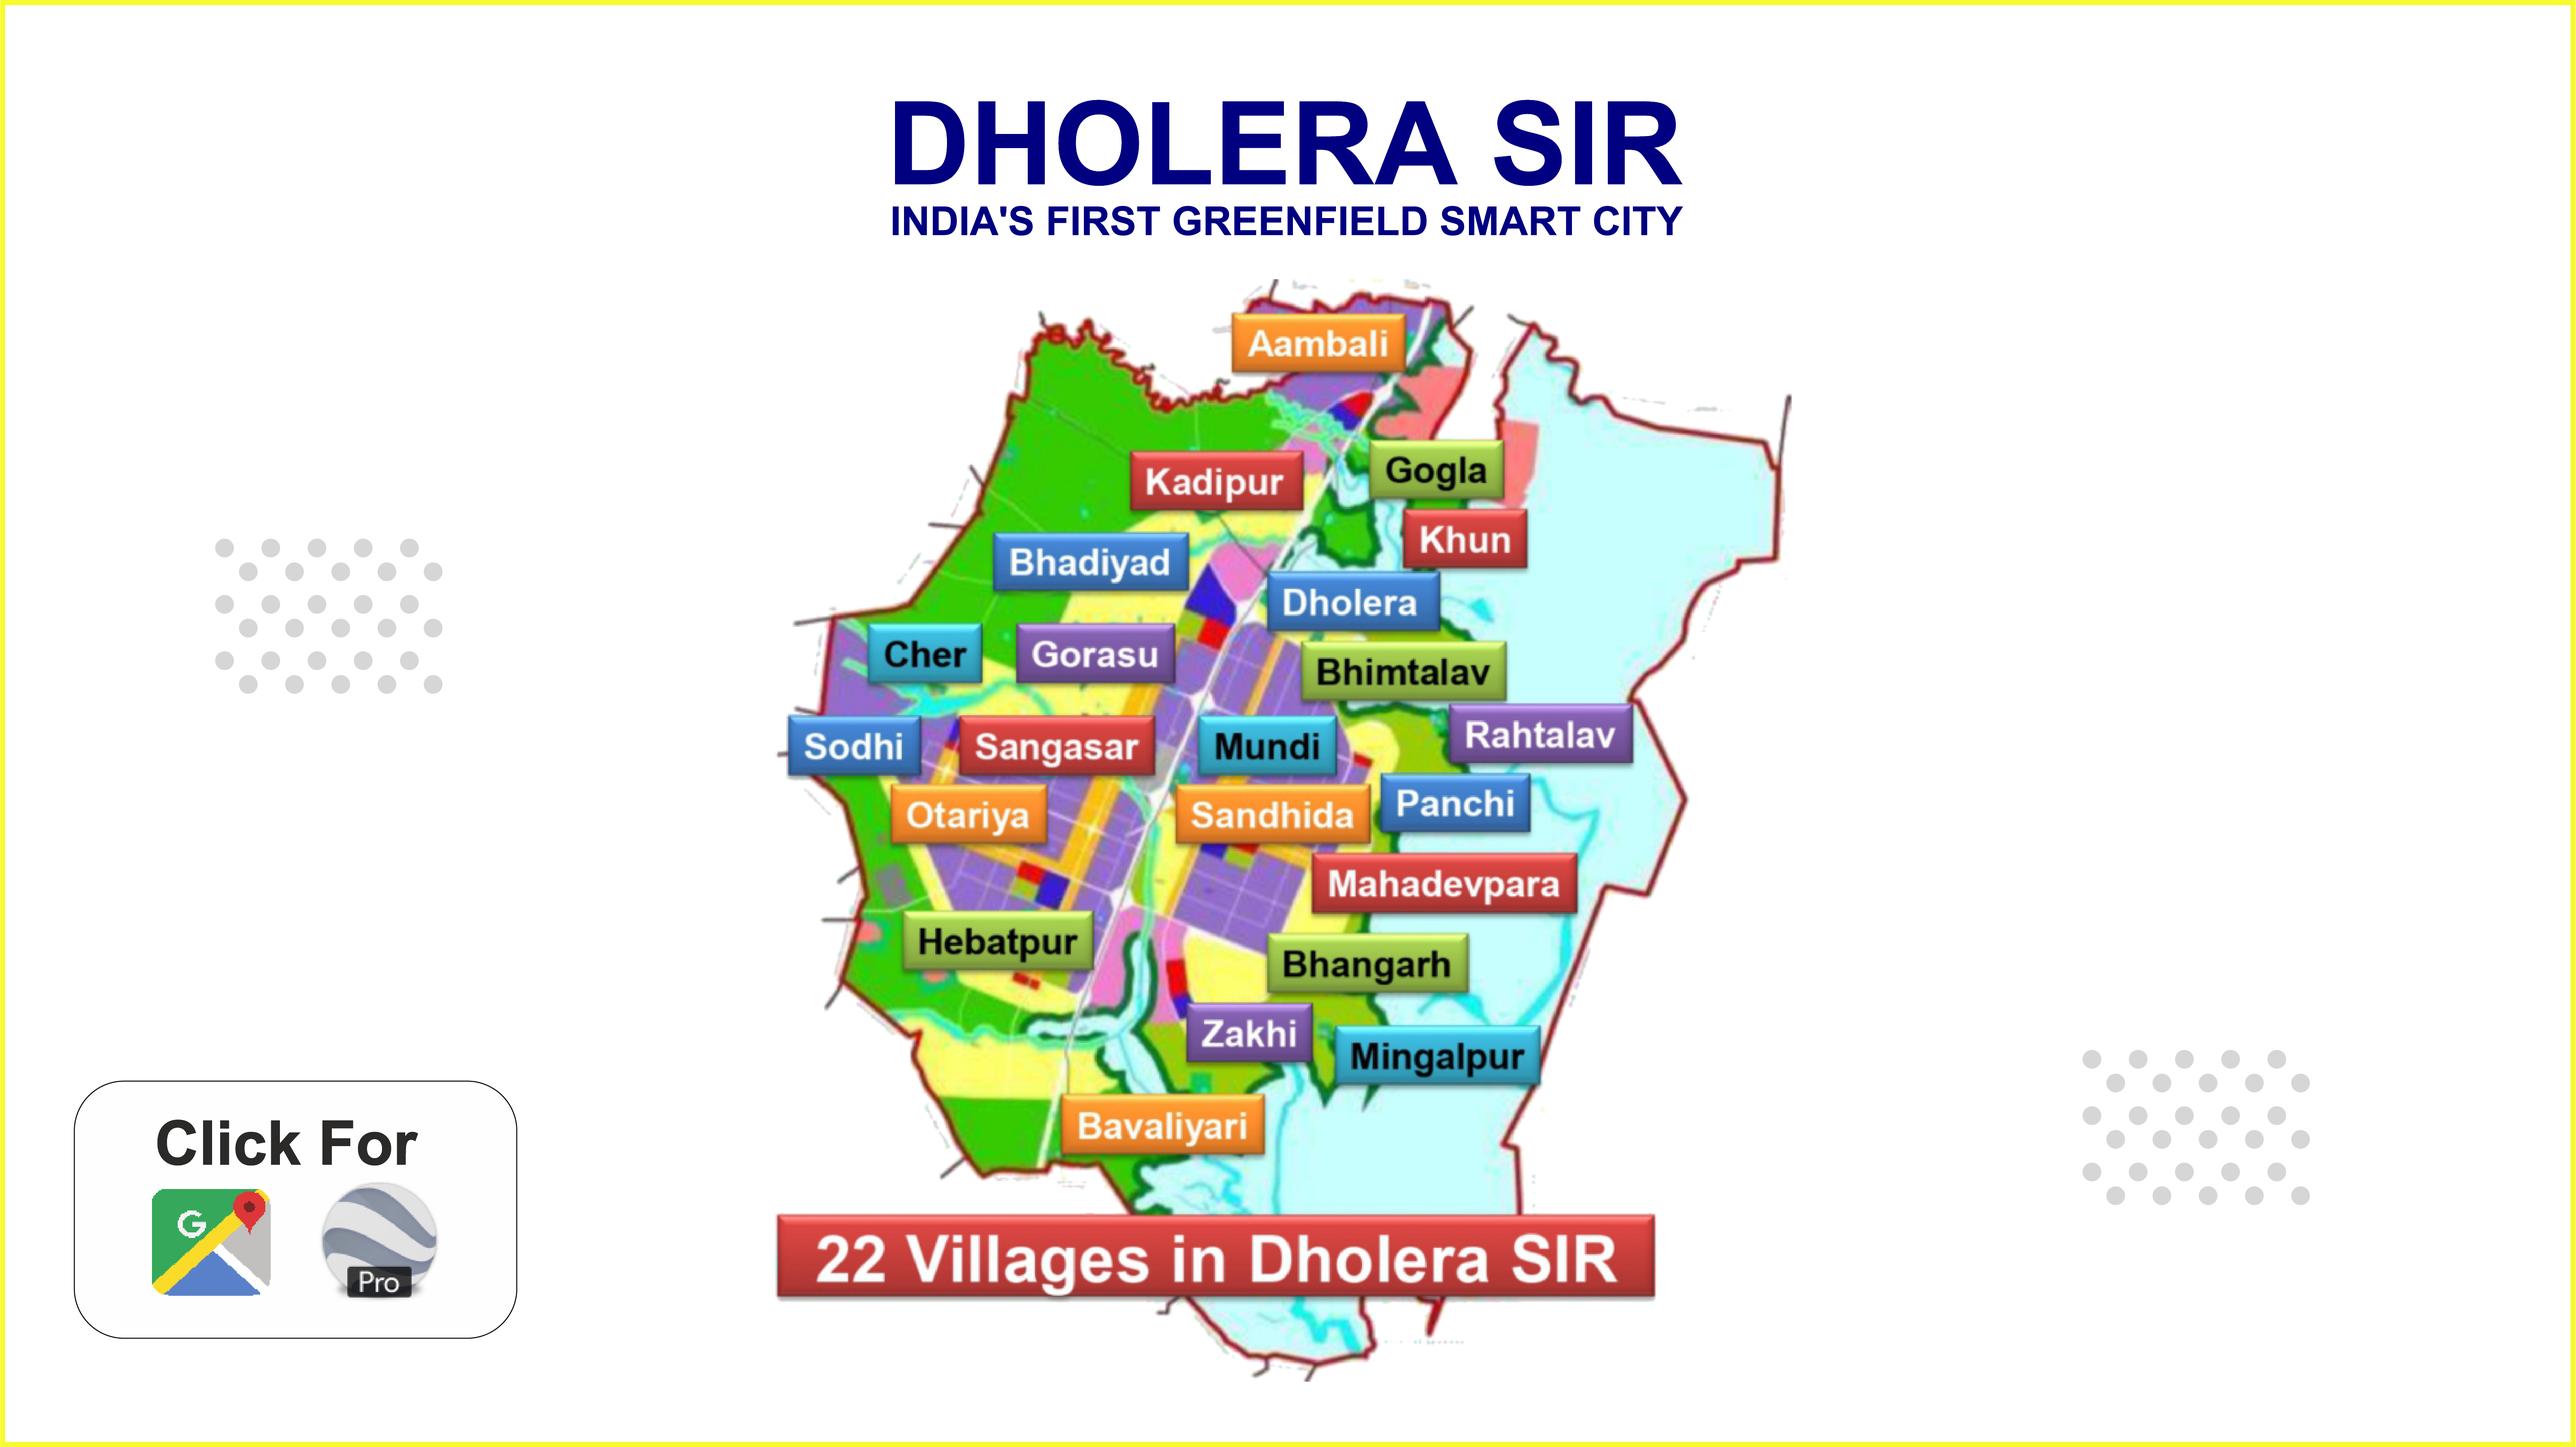
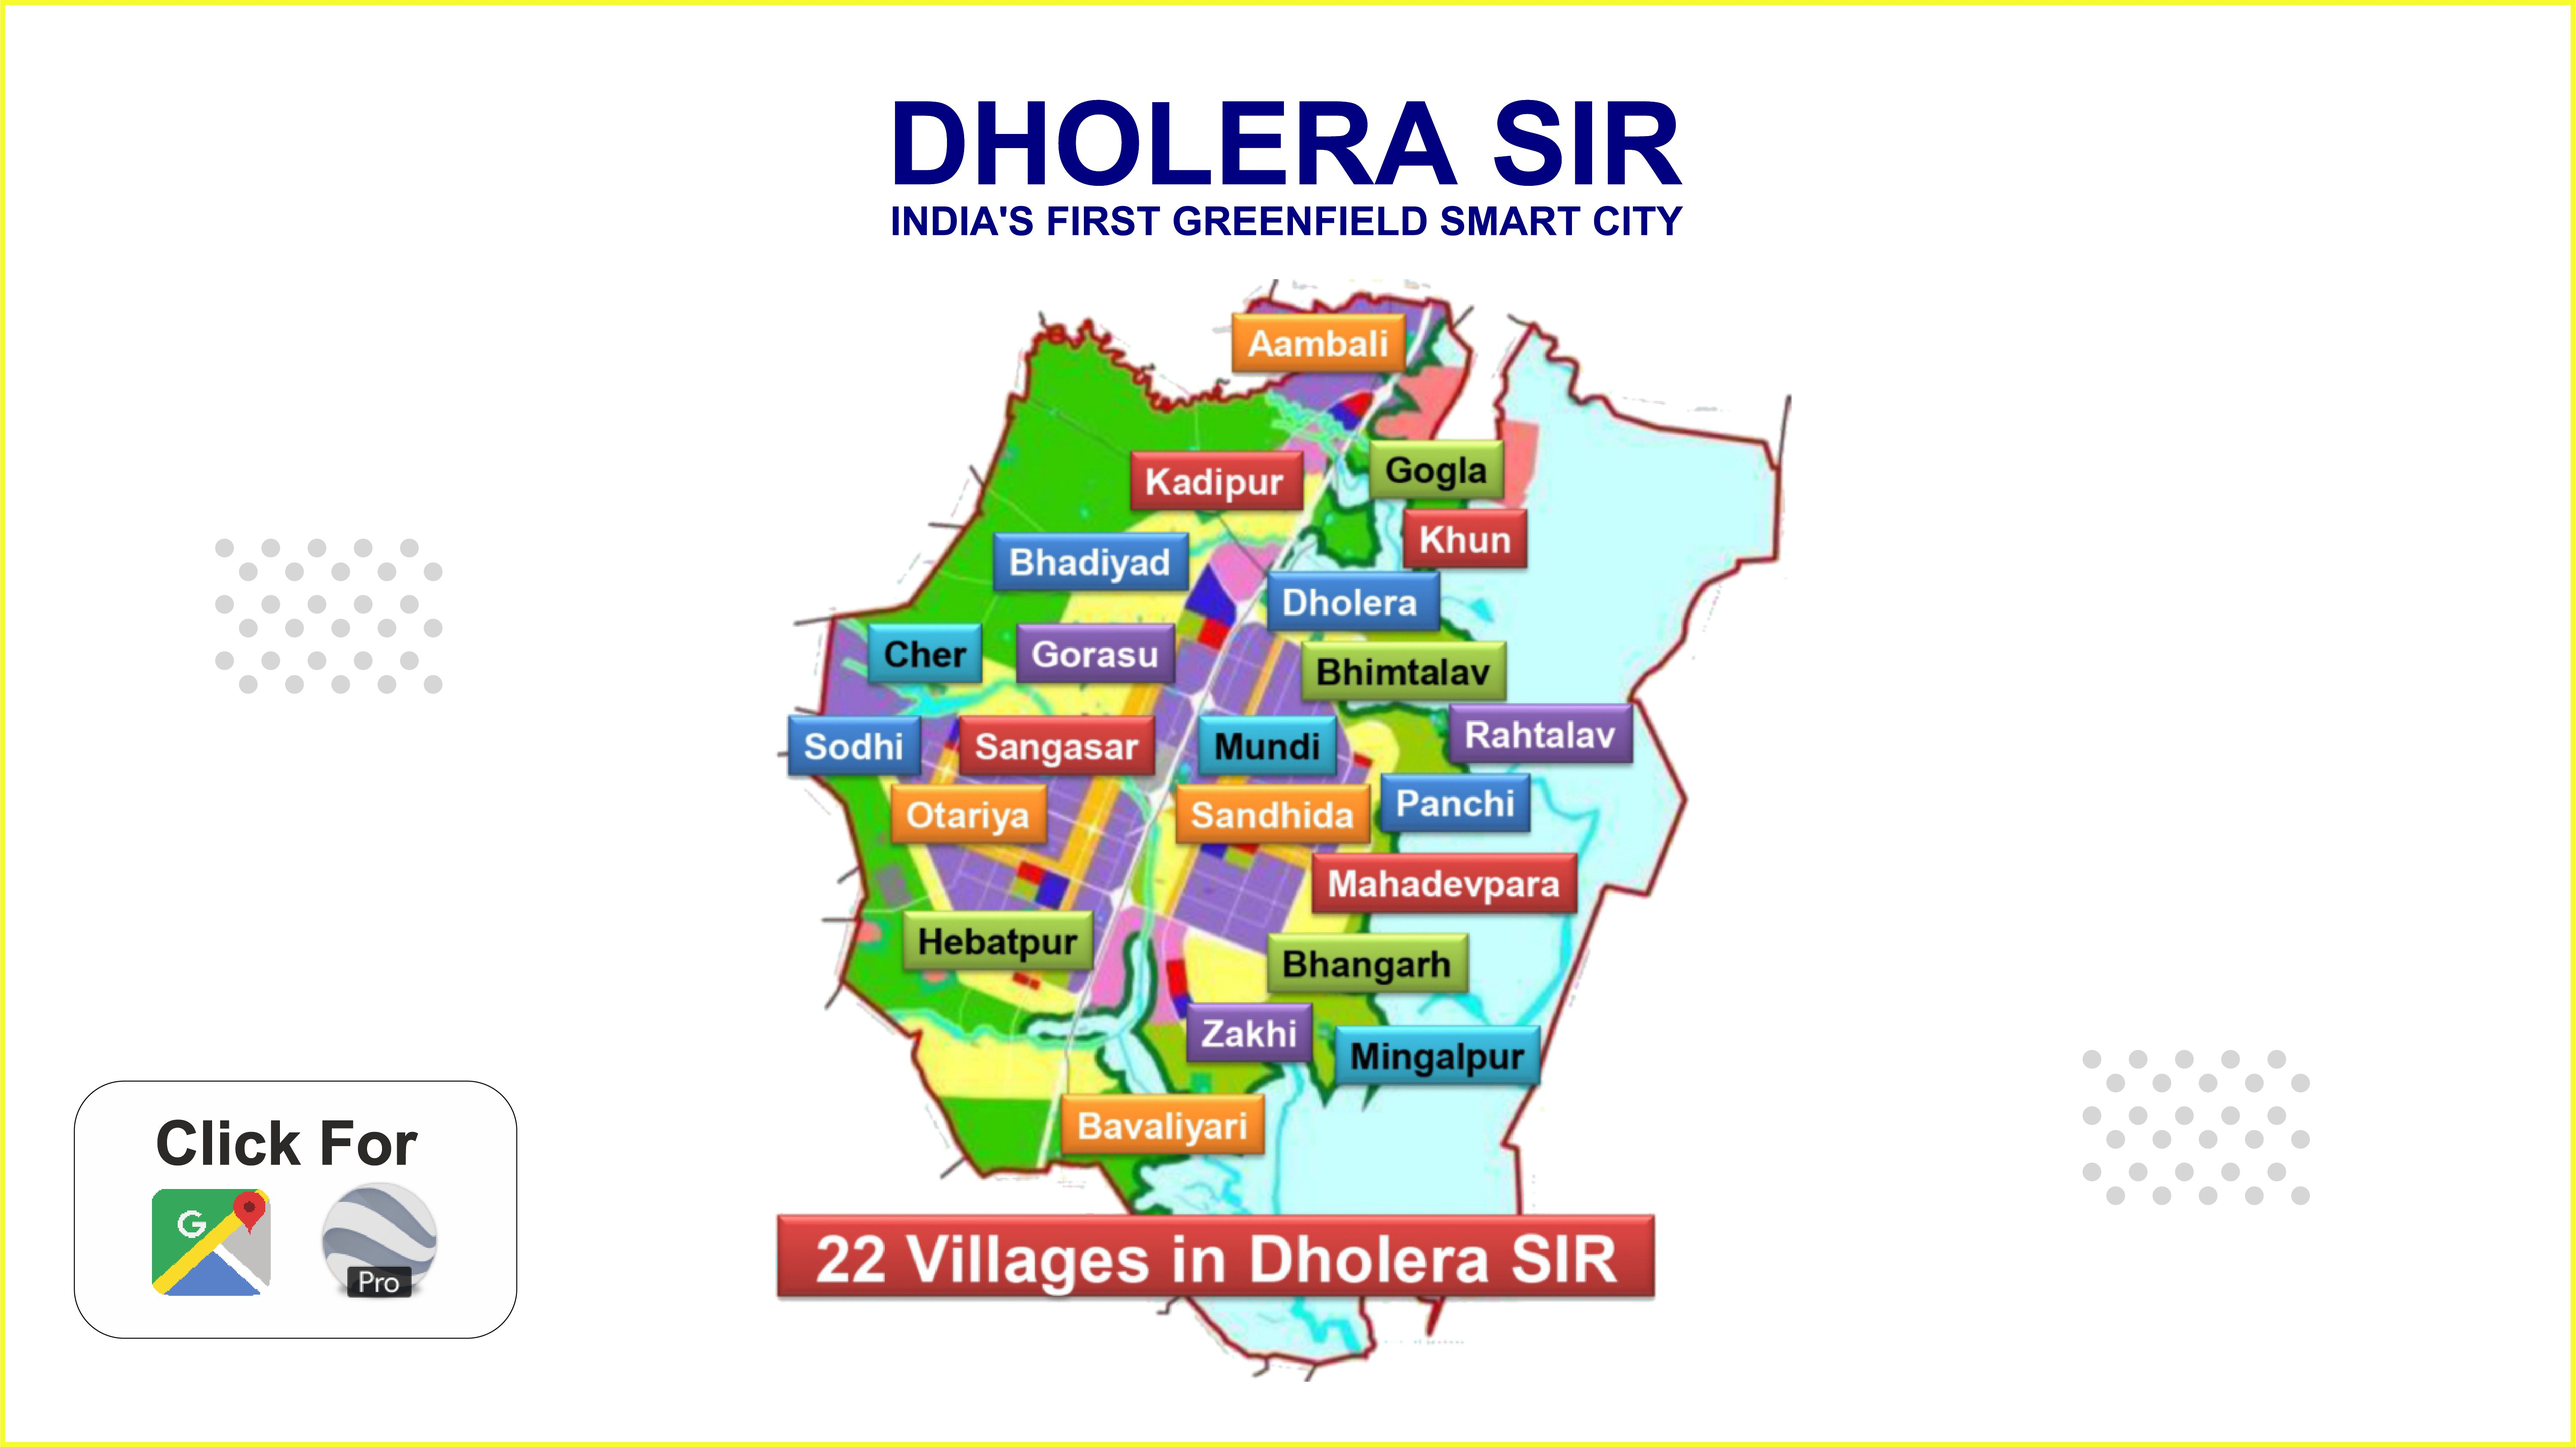
feat: add application assets and implement centralized API configuration service

Changed region(s): [[0.9972, 0.0, 1.0, 1.0]]

diff --git a/flutter/lib/core/config/api_config.dart b/flutter/lib/core/config/api_config.dart
@@ -22,7 +22,7 @@ class ApiConfig {
   }
 
   // App Version (Current installed version)
-  static const String currentAppVersion = '1.3.7';
+  static const String currentAppVersion = '1.3.8';
 
   // Endpoint URLs
   static const String versionConfig = '/api/config/version.php';
